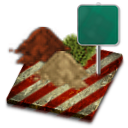
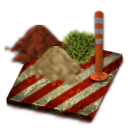
Initial steps to deprecate signs

diff --git a/FAQ.md b/FAQ.md
@@ -22,7 +22,7 @@ If you remove the mod, any new items that Dectorio adds to the game will simply 
 
 ## Does the mod work in multiplayer games?
 
-Yes, it _usually_ does and is regularly tested in multiplayer games. However, there are sometimes issues that arise when there are large mod packs on your server as there can be compatibility problems between individual mods. These are most often caused by the signs feature in Dectorio so sometimes toggling this off in the mod settings can workaround any errors. If you have an issue with a multiplayer save, [report an issue on GitHub](https://github.com/jpanther/Dectorio/issues) so I can investigate.
+Yes, it _usually_ does and is regularly tested in multiplayer games. However, there are sometimes issues that arise when there are large mod packs on your server as there can be compatibility problems between individual mods. If you have an issue with a multiplayer save, [report an issue on GitHub](https://github.com/jpanther/Dectorio/issues) so I can investigate.
 
 ## What changed in the latest update?
 
@@ -65,6 +65,12 @@ The Lawnmower can also be used to remove corpses from the ground (such as dead b
 ## What's the point of the extra signals like the star or arrows?
 
 These are simply additional signals that you can use when making circuit network conditions. For instance, if you had a circuit network that was calculating the battery level of your accumulators, you might find it easier to follow your logic if you assign this a 'battery' signal, rather than using an arbitrary letter or number. They don't offer any other additional functionality.
+
+## What happened to the signs?
+
+Dectorio used to support placing signs however this feature caused a lot of compatibility issues with other mods and was time consuming to maintain. There are now also a number of other mods that provide similar functionality and as a result, signs have now been deprecated. Check out [Industrial Display Plates](https://mods.factorio.com/mod/IndustrialDisplayPlates) or [Text Plates](https://mods.factorio.com/mod/textplates) for high-quality replacements.
+
+Existing saves will still load normally and any existing signs will work however no new signs can be crafted or placed. To remove sign support completely, disable the compatibility setting in your mod settings.
 
 ## I have a sign that's stuck on the map and it cannot be mined. How do I remove it?
 
@@ -112,11 +118,11 @@ While I can't possibly test every combination of mods available, usually Dectori
 
 That's a pity, but that's the nature of modding. If you have a valid concern about something Dectorio is changing that seems contrary to the way something should work, feel free to [raise a new issue on GitHub](https://github.com/jpanther/Dectorio/issues) outlining your concern. If it is something that makes sense to change, I'll definitely look to adjust the mod in a future update. However, please note that Dectorio is designed to make it easy to decorate your factory, and the technology and recipe choices try to be somewhat realistic. The mod settings allow you to toggle individual changes on and off so you can customise it to your own play style. If you still don't like that, then simply don't use the mod! Requests that just whinge about things you don't agree with, without being constructive, will be ignored.
 
-## How do I play with Dectorio on Factorio 0.17.x, 0.16.x or 0.15.x?
+## How do I play with Dectorio on Factorio 0.18.x 0.17.x, 0.16.x or 0.15.x?
 
-The latest versions of Dectorio are designed to work with Factorio 0.18 and later. Due to the way the base game changes with each major release, there's no way to make the latest versions of Dectorio compatible with older versions of Factorio. However, old stable versions of Dectorio are kept available on the mod portal for each major Factorio release.
+The latest versions of Dectorio are designed to work with Factorio 1.0 and later. Due to the way the base game changes with each major release, there's no way to make the latest versions of Dectorio compatible with older versions of Factorio. However, old stable versions of Dectorio are kept available on the mod portal for each major Factorio release.
 
-For Factorio 0.17.x download Dectorio v0.9.16; for Factorio 0.16.x download Dectorio v0.8.11; and for Factorio 0.15.x download Dectorio v0.7.6.
+For Factorio 0.18.x download Dectorio v0.10.9; Factorio 0.17.x download Dectorio v0.9.16; for Factorio 0.16.x download Dectorio v0.8.11; and for Factorio 0.15.x download Dectorio v0.7.6.
 
 Note that these old versions of Dectorio will not be updated with new features, but they will occasionally have bugfixes if it's appropriate. You'll need to upgrade your Factorio version to take advantage of the latest changes.
 

diff --git a/README.md b/README.md
@@ -56,12 +56,6 @@ Requires Factorio version 0.15 or later.
 
   ![Walls](https://img.pantherx.net/dectorio/walls.png)
 
-### Signs
-
-* Adds placable wooden and steel signs with configurable icons
-
-  ![Signs](https://img.pantherx.net/dectorio/signs.png)
-
 ### Signals & Lamps
 
 * Adds a new Glowing lamp that will glow bright colours over a large radius when passed a coloured signal from the circuit network
